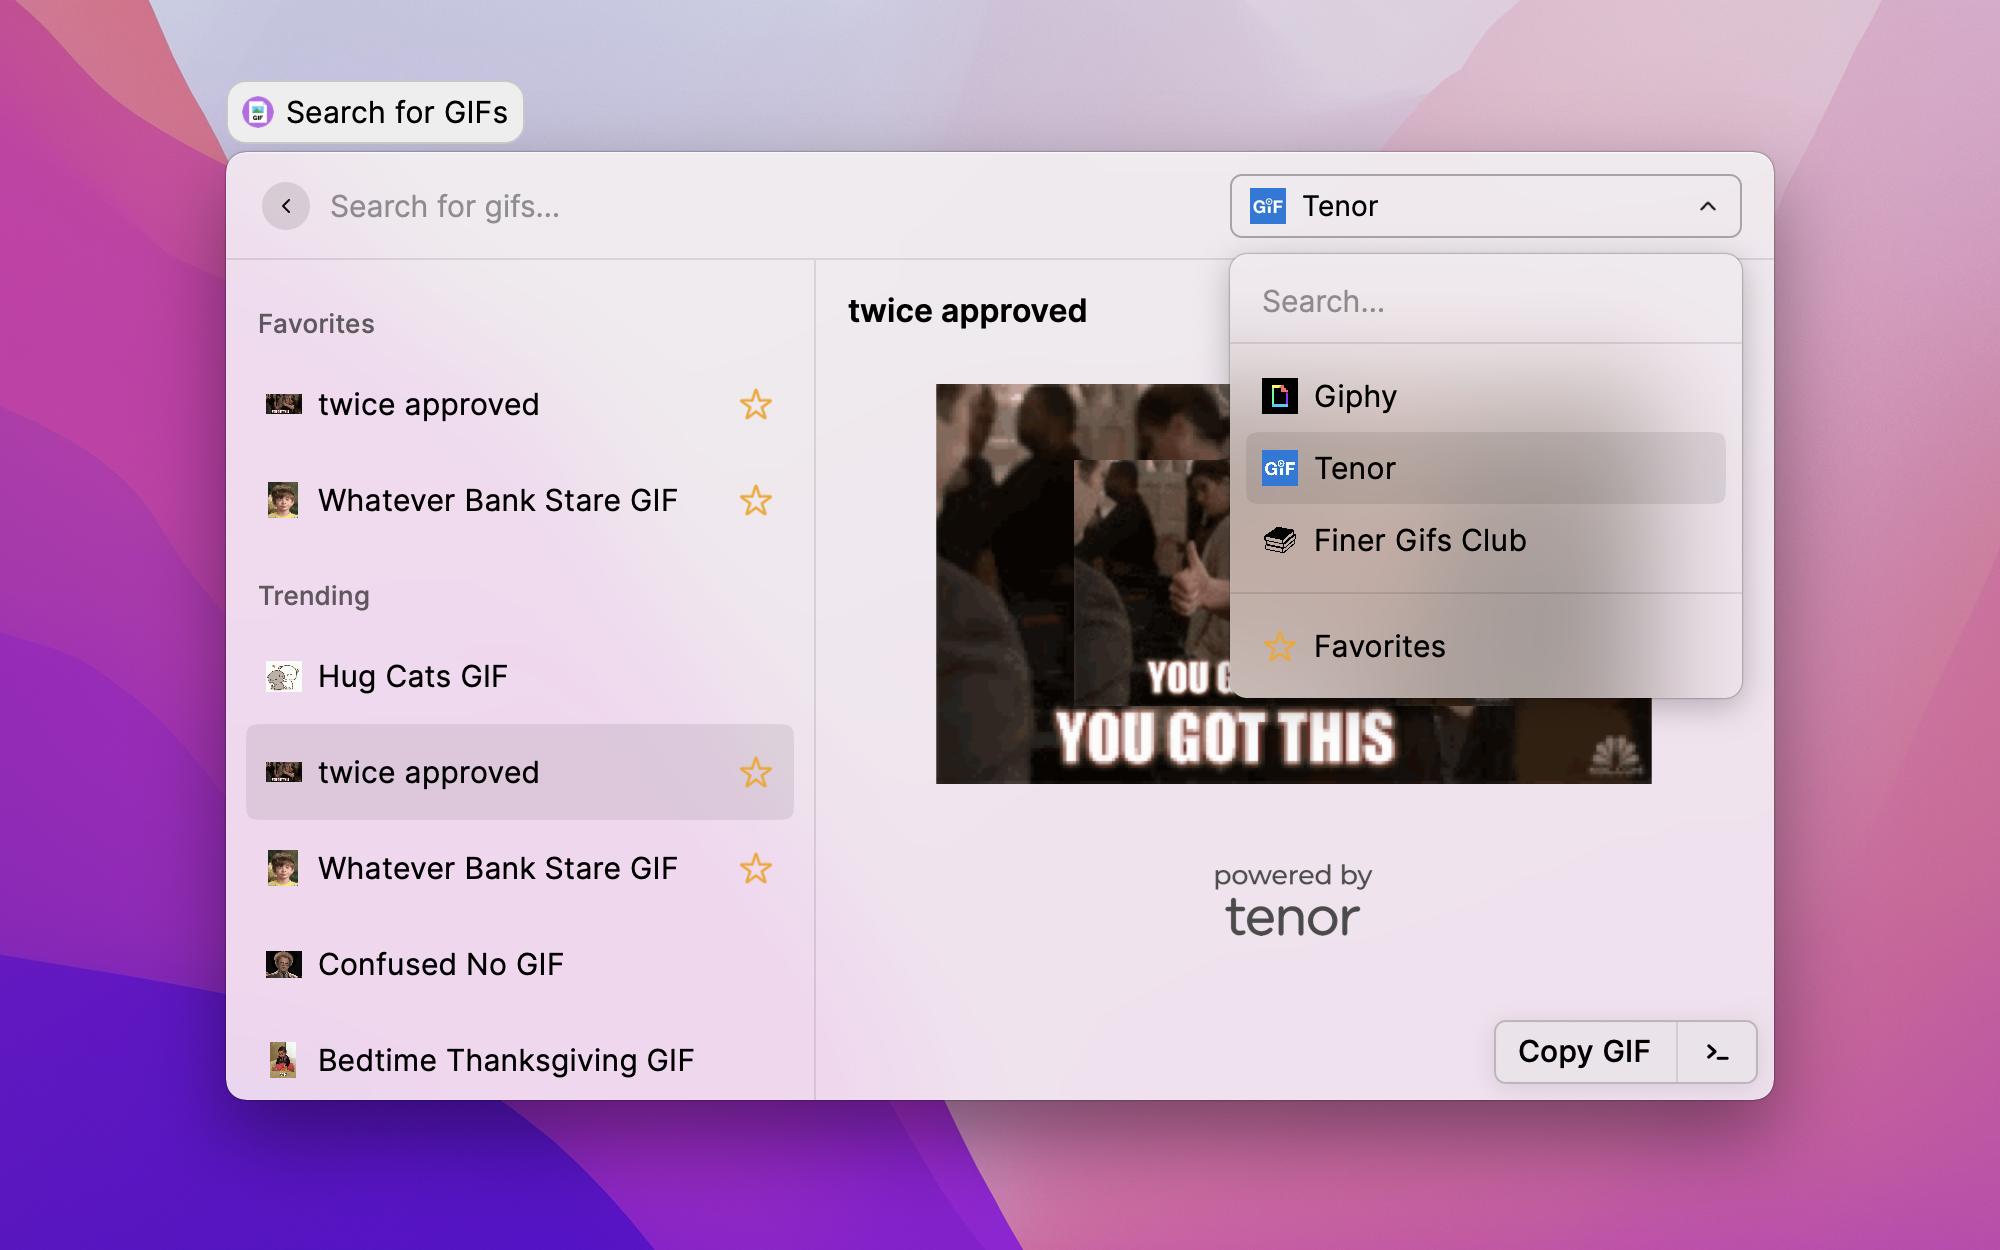
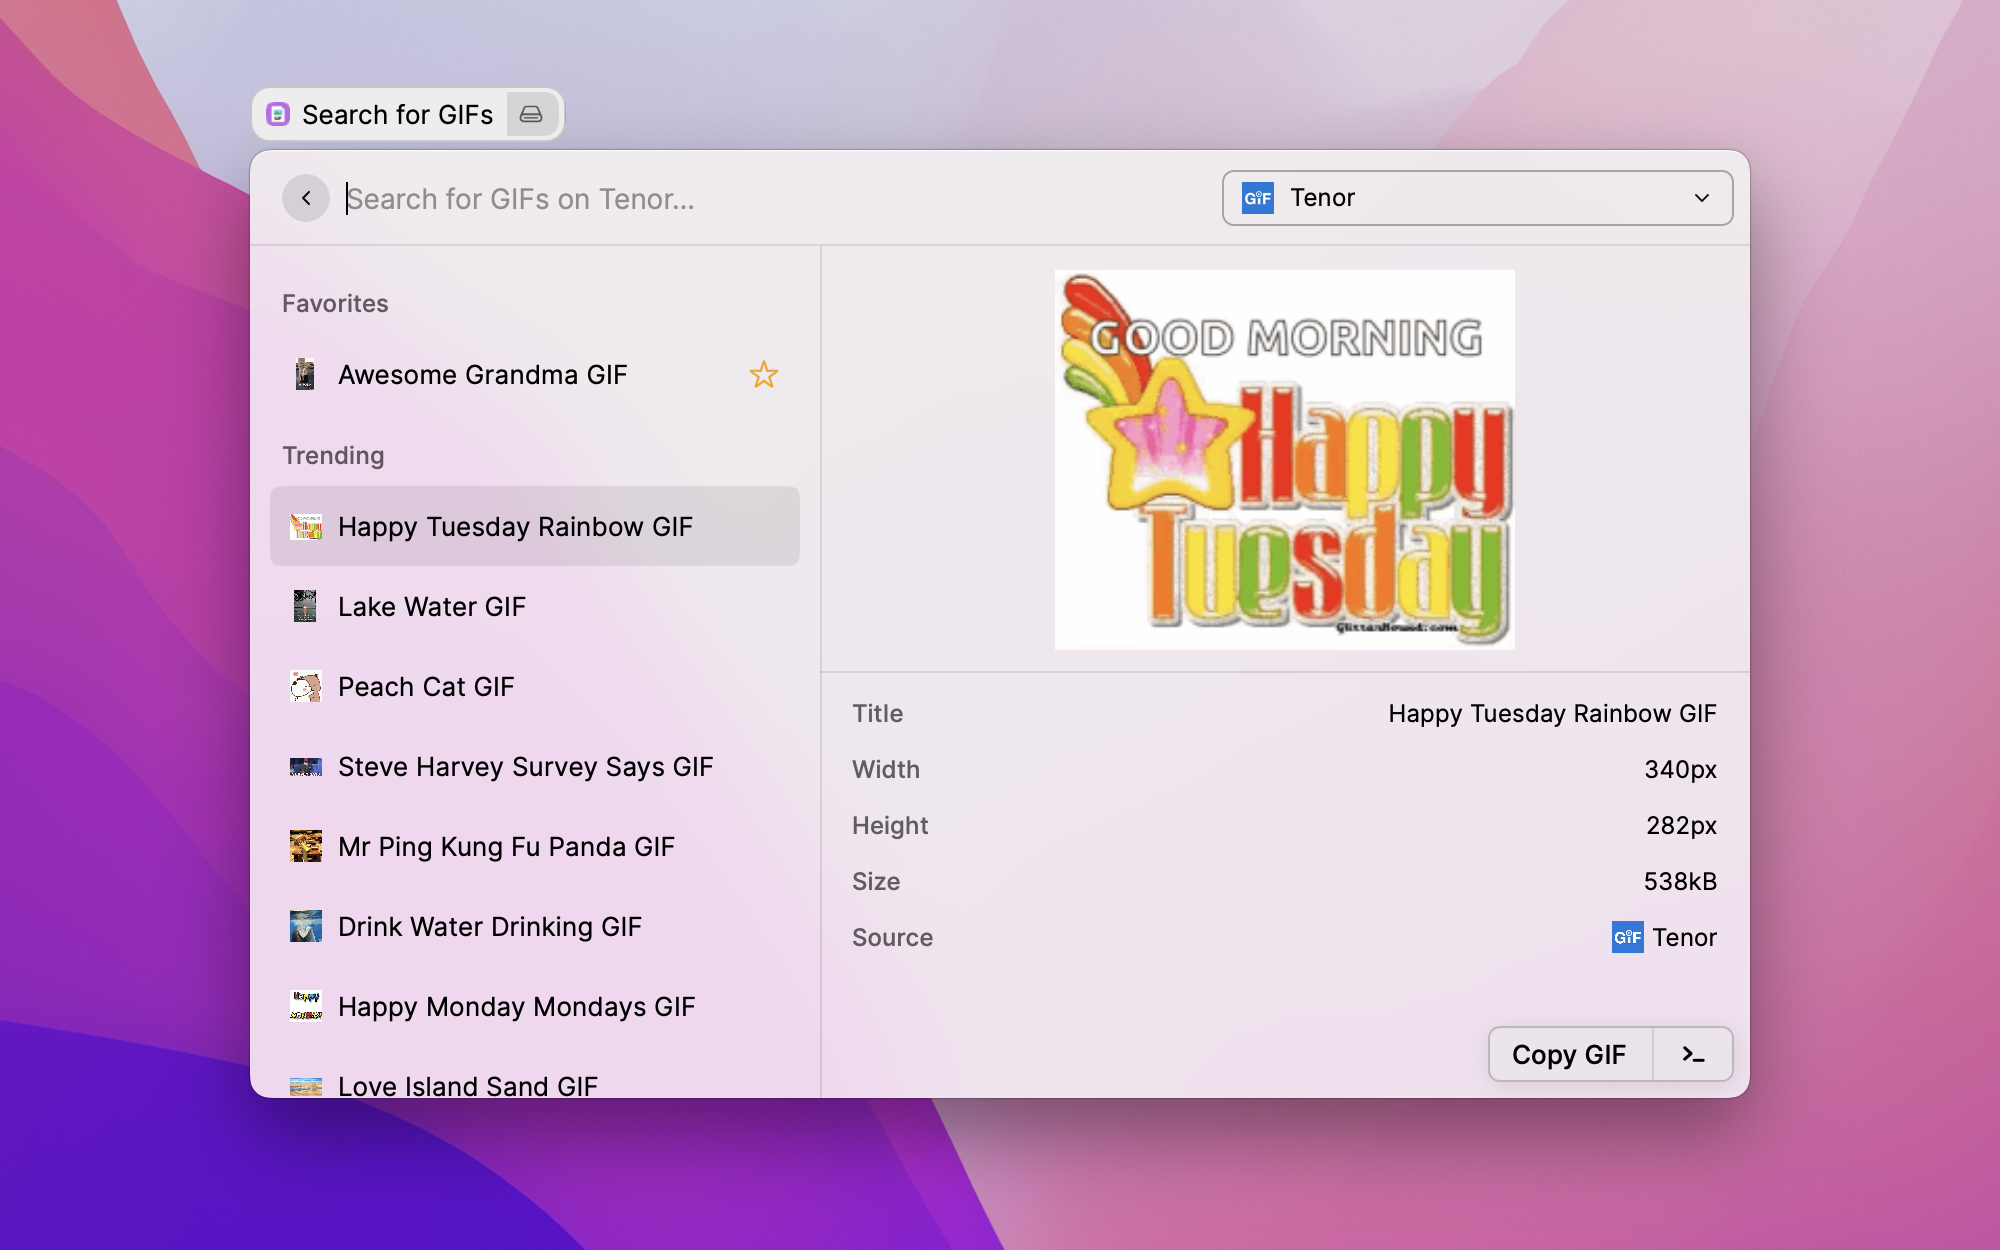
[gif-search]: Implement new Grid layout (#1916)
* Refactor in preparation of switching between List and Grid layouts

Grid view is coming! This refactor makes higher order components that allow setting a `layoutType` that then correctly uses the List or Grid components for rendering.

* Update to use official Grid release

Using the real thing also found a bunch of missing places for ListOrGrid

* Fix lock file

* Update changelog and screenshots

* Fix image sizes

diff --git a/extensions/gif-search/src/components/GifSearchList.tsx b/extensions/gif-search/src/components/GifSearchList.tsx
@@ -1,8 +1,17 @@
 import { List, Image, Icon, Color } from "@raycast/api";
-import { GIF_SERVICE } from "../preferences";
+import { GIF_SERVICE, LayoutType } from "../preferences";
+
+import {
+  ListOrGrid,
+  ListOrGridDropdown,
+  ListOrGridDropdownSection,
+  ListOrGridDropdownItem,
+  ListOrGridEmptyView,
+} from "./ListOrGrid";
 import { GifListSection, GifListSectionProps } from "./GifListSection";
 
 export interface GifListProps {
+  layoutType?: LayoutType;
   isLoading?: boolean;
   showDropdown?: boolean;
   showDetail?: boolean;
@@ -17,37 +26,53 @@ export interface GifListProps {
 }
 
 export function GifSearchList(props: GifListProps) {
+  const { layoutType } = props;
   return (
-    <List
+    <ListOrGrid
+      layoutType={layoutType}
       searchBarAccessory={
         props.showDropdown ? (
-          <List.Dropdown tooltip="" storeValue={true} onChange={props.onDropdownChange}>
-            <List.Dropdown.Section>
-              <List.Dropdown.Item
+          <ListOrGridDropdown
+            layoutType={props.layoutType}
+            tooltip=""
+            storeValue={true}
+            onChange={props.onDropdownChange}
+          >
+            <ListOrGridDropdownSection layoutType={props.layoutType}>
+              <ListOrGridDropdownItem
+                layoutType={props.layoutType}
                 title="Giphy"
                 value={GIF_SERVICE.GIPHY}
                 icon={{ source: "giphy-logo-square-180.png" }}
               />
-              <List.Dropdown.Item
+              <ListOrGridDropdownItem
+                layoutType={props.layoutType}
                 title="Tenor"
                 value={GIF_SERVICE.TENOR}
                 icon={{ source: "tenor-logo-square-180.png" }}
               />
-              <List.Dropdown.Item
+              <ListOrGridDropdownItem
+                layoutType={props.layoutType}
                 title="Finer Gifs Club"
                 value={GIF_SERVICE.FINER_GIFS}
                 icon={{ source: "finergifs-logo.svg", tintColor: Color.PrimaryText }}
               />
-            </List.Dropdown.Section>
-            <List.Dropdown.Section>
-              <List.Dropdown.Item
+            </ListOrGridDropdownSection>
+            <ListOrGridDropdownSection layoutType={props.layoutType}>
+              <ListOrGridDropdownItem
+                layoutType={props.layoutType}
                 title="Favorites"
                 value={GIF_SERVICE.FAVORITES}
                 icon={{ source: Icon.Star, tintColor: Color.Yellow }}
               />
-              <List.Dropdown.Item title="Recent" value={GIF_SERVICE.RECENTS} icon={{ source: Icon.Clock }} />
-            </List.Dropdown.Section>
-          </List.Dropdown>
+              <ListOrGridDropdownItem
+                layoutType={props.layoutType}
+                title="Recent"
+                value={GIF_SERVICE.RECENTS}
+                icon={{ source: Icon.Clock }}
+              />
+            </ListOrGridDropdownSection>
+          </ListOrGridDropdown>
         ) : undefined
       }
       enableFiltering={props.enableFiltering}
@@ -58,10 +83,11 @@ export function GifSearchList(props: GifListProps) {
       isShowingDetail={props.showDetail}
     >
       {props.showEmpty ? (
-        <List.EmptyView title={props.emptyStateText} icon={props.emptyStateIcon} />
+        <ListOrGridEmptyView layoutType={layoutType} title={props.emptyStateText} icon={props.emptyStateIcon} />
       ) : (
         props.sections.map((sProps) => (
           <GifListSection
+            layoutType={sProps.layoutType}
             key={sProps.title}
             title={sProps.title}
             results={sProps.results}
@@ -71,6 +97,6 @@ export function GifSearchList(props: GifListProps) {
           />
         ))
       )}
-    </List>
+    </ListOrGrid>
   );
 }

diff --git a/extensions/gif-search/src/components/GifSearch.tsx b/extensions/gif-search/src/components/GifSearch.tsx
@@ -2,7 +2,14 @@ import { useEffect, useReducer, useState } from "react";
 
 import { showToast, Toast, Icon } from "@raycast/api";
 
-import { ServiceName, getShowPreview, getMaxResults, GIF_SERVICE, getServiceTitle } from "../preferences";
+import {
+  ServiceName,
+  getShowPreview,
+  getMaxResults,
+  GIF_SERVICE,
+  getServiceTitle,
+  getLayoutType,
+} from "../preferences";
 
 import AppContext, { initialState, reduceAppState } from "./AppContext";
 
@@ -14,6 +21,7 @@ import useGifPopulator, { GifIds } from "../hooks/useGifPopulator";
 export function GifSearch() {
   const showPreview = getShowPreview();
   const limit = getMaxResults();
+  const layoutType = getLayoutType();
 
   const [searchService, setSearchService] = useState<ServiceName>();
   const [results, isLoading, setSearchTerm, searchTerm, search] = useSearchAPI({ limit });
@@ -129,6 +137,7 @@ export function GifSearch() {
   if (showAllFavs()) {
     searchList = (
       <GifSearchList
+        layoutType={layoutType}
         isLoading={isLoadingFavIds || isLoadingFavs}
         showDropdown={true}
         showDetail={showPreview && (favItems?.items?.size ?? 0) !== 0}
@@ -139,13 +148,14 @@ export function GifSearch() {
         emptyStateText="Add some GIFs to your Favorites first!"
         emptyStateIcon={Icon.Star}
         sections={Array.from(favItems?.items || []).map(([service, gifs]) => {
-          return { title: getServiceTitle(service), results: gifs, service };
+          return { title: getServiceTitle(service), results: gifs, service, layoutType };
         })}
       />
     );
   } else if (showAllRecents()) {
     searchList = (
       <GifSearchList
+        layoutType={layoutType}
         isLoading={isLoadingRecentIds || isLoadingRecents}
         showDropdown={true}
         showDetail={showPreview && (recentItems?.items?.size ?? 0) !== 0}
@@ -156,13 +166,14 @@ export function GifSearch() {
         emptyStateText="Work with some GIFs first..."
         emptyStateIcon={Icon.Clock}
         sections={Array.from(recentItems?.items || []).map(([service, gifs]) => {
-          return { title: getServiceTitle(service), results: gifs, service };
+          return { title: getServiceTitle(service), results: gifs, service, layoutType };
         })}
       />
     );
   } else {
     searchList = (
       <GifSearchList
+        layoutType={layoutType}
         isLoading={isLoading || isLoadingFavIds || isLoadingFavs || isLoadingRecents}
         showDropdown={true}
         showDetail={showPreview && (results?.items?.length ?? 0) + (favItems?.items?.size ?? 0) != 0}
@@ -178,14 +189,22 @@ export function GifSearch() {
             results: favItems?.items?.get(searchService as ServiceName),
             service: searchService,
             hide: !favItems?.items || !!results?.term,
+            layoutType,
           },
           {
             title: "Recent",
             results: recentItems?.items?.get(searchService as ServiceName),
             service: searchService,
             hide: !recentItems?.items || !!results?.term,
+            layoutType,
           },
-          { title: "Trending", term: results?.term, results: results?.items, service: searchService },
+          {
+            title: "Trending",
+            term: results?.term,
+            results: results?.items,
+            service: searchService,
+            layoutType,
+          },
         ]}
       />
     );

diff --git a/extensions/gif-search/src/components/ListOrGrid.tsx b/extensions/gif-search/src/components/ListOrGrid.tsx
@@ -1,0 +1,55 @@
+import { List, Grid } from "@raycast/api";
+
+export type ListType = "list";
+export type GridType = "grid";
+
+type ListOrGridProps = ({ layoutType?: ListType } & List.Props) | ({ layoutType?: GridType } & Grid.Props);
+export function ListOrGrid<T>(props: ListOrGridProps, context?: T) {
+  const { layoutType, ...rest } = props;
+  return layoutType === "list" ? List(rest, context) : Grid(rest, context);
+}
+
+type ListOrGridSectionProps =
+  | ({ layoutType?: ListType } & List.Section.Props)
+  | ({ layoutType?: GridType } & Grid.Section.Props);
+export function ListOrGridSection<T>(props: ListOrGridSectionProps, context?: T) {
+  const { layoutType = "list", ...rest } = props;
+  return layoutType === "list" ? List.Section(rest, context) : Grid.Section(rest, context);
+}
+
+type ListOrGridEmptyViewProps =
+  | ({ layoutType?: ListType } & List.EmptyView.Props)
+  | ({ layoutType?: GridType } & Grid.EmptyView.Props);
+export function ListOrGridEmptyView<T>(props: ListOrGridEmptyViewProps, context?: T) {
+  const { layoutType = "list", ...rest } = props;
+  return layoutType === "list" ? List.EmptyView(rest, context) : Grid.EmptyView(rest, context);
+}
+
+type ListOrGridDropdownProps =
+  | ({ layoutType?: ListType } & List.Dropdown.Props)
+  | ({ layoutType?: GridType } & Grid.Dropdown.Props);
+export function ListOrGridDropdown<T>(props: ListOrGridDropdownProps, context?: T) {
+  const { layoutType = "list", ...rest } = props;
+  return layoutType === "list"
+    ? List.Dropdown(rest as List.Dropdown.Props, context)
+    : Grid.Dropdown(rest as Grid.Dropdown.Props, context);
+}
+
+type ListOrGridDropdownSectionProps =
+  | ({ layoutType?: ListType } & List.Dropdown.Section.Props)
+  | ({ layoutType?: GridType } & Grid.Dropdown.Section.Props);
+export function ListOrGridDropdownSection<T>(props: ListOrGridDropdownSectionProps, context?: T) {
+  const { layoutType = "list", ...rest } = props;
+  return layoutType === "list" ? List.Dropdown.Section(rest, context) : Grid.Dropdown.Section(rest, context);
+}
+
+type ListOrGridDropdownItemProps =
+  | ({ layoutType?: ListType } & List.Dropdown.Item.Props)
+  | ({ layoutType?: GridType } & Grid.Dropdown.Item.Props);
+export function ListOrGridDropdownItem<T>(props: ListOrGridDropdownItemProps, context?: T) {
+  const { layoutType = "list", ...rest } = props;
+
+  return layoutType === "list"
+    ? List.Dropdown.Item(rest as List.Dropdown.Item.Props, context)
+    : Grid.Dropdown.Item(rest as Grid.Dropdown.Item.Props, context);
+}

diff --git a/extensions/gif-search/src/components/GifResult.tsx b/extensions/gif-search/src/components/GifResult.tsx
@@ -1,15 +1,15 @@
 import { useContext } from "react";
 
-import { List, Icon, Color } from "@raycast/api";
+import { List, Icon, Color, Grid } from "@raycast/api";
 import FileSizeFormat from "@saekitominaga/file-size-format";
 
 import { GifDetailsActions } from "./GifDetailsActions";
 
 import AppContext from "../components/AppContext";
 import { IGif, renderGifMarkdownDetails } from "../models/gif";
-import { getShowPreview, getServiceTitle, ServiceName } from "../preferences";
+import { getShowPreview, getServiceTitle, ServiceName, LayoutType, LAYOUT_TYPE } from "../preferences";
 
-export function GifResult(props: { item: IGif; index: number; service?: ServiceName }) {
+export function GifResult(props: { item: IGif; index: number; service?: ServiceName; layoutType?: LayoutType }) {
   const { preview_gif_url, title, id } = props.item;
   const { state } = useContext(AppContext);
   const is_fav = state.favIds?.get(props.service as ServiceName)?.has(id.toString());
@@ -22,7 +22,13 @@ export function GifResult(props: { item: IGif; index: number; service?: ServiceN
 
   const { metadata, attribution } = props.item;
 
-  return (
+  return props.layoutType === LAYOUT_TYPE.Grid ? (
+    <Grid.Item
+      title={title}
+      content={{ source: preview_gif_url }}
+      actions={<GifDetailsActions item={props.item} showViewDetails={true} service={props.service} />}
+    />
+  ) : (
     <List.Item
       title={title}
       icon={{ source: preview_gif_url }}

diff --git a/extensions/gif-search/src/components/GifListSection.tsx b/extensions/gif-search/src/components/GifListSection.tsx
@@ -1,10 +1,10 @@
-import { List } from "@raycast/api";
-
+import { ListOrGridSection } from "./ListOrGrid";
 import { GifResult } from "./GifResult";
 import type { IGif } from "../models/gif";
-import { ServiceName } from "../preferences";
+import { LayoutType, ServiceName } from "../preferences";
 
 export interface GifListSectionProps {
+  layoutType?: LayoutType;
   title?: string;
   term?: string;
   hide?: boolean;
@@ -19,10 +19,10 @@ export function GifListSection(props: GifListSectionProps) {
   }
 
   return !props.hide ? (
-    <List.Section title={title} key={props.title}>
+    <ListOrGridSection layoutType={props.layoutType} title={title} key={props.title}>
       {props.results?.map((result, index) => (
-        <GifResult key={result.id} item={result} index={index} service={props.service} />
+        <GifResult layoutType={props.layoutType} key={result.id} item={result} index={index} service={props.service} />
       ))}
-    </List.Section>
+    </ListOrGridSection>
   ) : null;
 }

diff --git a/extensions/gif-search/src/preferences.ts b/extensions/gif-search/src/preferences.ts
@@ -9,6 +9,7 @@ export const API_KEY = "apiKey";
 export const SHOW_PREVIEW = "showGifPreview";
 export const MAX_RESULTS = "maxResults";
 export const DEFAULT_ACTION = "defaultAction";
+export const LAYOUT = "layoutType";
 
 export const CONFIG_URL = "https://cdn.joe.sh/gif-search/config.json";
 
@@ -103,4 +104,14 @@ export async function fetchConfig(forceRefresh?: boolean) {
   }
 
   return config;
+}
+
+export type LayoutType = "list" | "grid";
+export const LAYOUT_TYPE: { [type: string]: LayoutType } = {
+  List: "list",
+  Grid: "grid",
+};
+
+export function getLayoutType() {
+  return getPrefs()[LAYOUT];
 }

diff --git a/extensions/gif-search/CHANGELOG.md b/extensions/gif-search/CHANGELOG.md
@@ -1,6 +1,9 @@
 # GIF Search Changelog
 
-## [New Metadata] - 2022-05-$9
+## [Added Grid Layout Support] - 2022-06-07
+- Adds new option to display results in a Grid or a List
+
+## [New Metadata] - 2022-05-09
 - Adds a new icon
 - Adds metadata to list items
 
